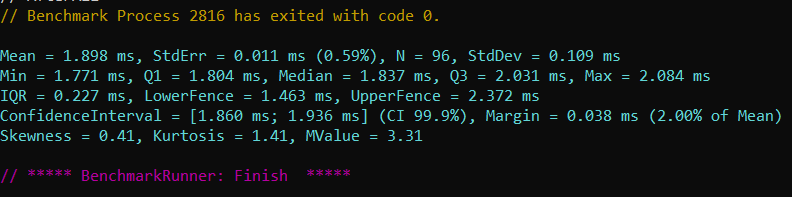
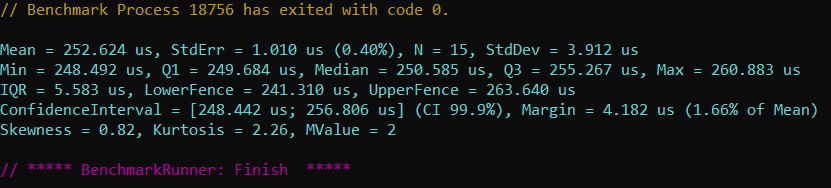
Small changes to benchmark and doc

Changed region(s): [[0.0, 0.2128, 1.0, 0.7447], [0.0, 0.0, 0.5455, 0.1064], [0.0, 0.8511, 0.4545, 0.9574]]

diff --git a/RDFSharp.NonFunctionalTest/Benchmarks.cs b/RDFSharp.NonFunctionalTest/Benchmarks.cs
@@ -57,40 +57,59 @@ namespace RDFSharp.NonFunctionalTest
             var graphNTrples = RDFGraph.FromFile(ntriplesFormat, @"..\..\..\..\..\..\..\..\ntriples.nt");
         }
 
+        // Create triple with resource, vocabulary, typedliteral
         [Benchmark]
         public void Scenario5()
         {
-            RDFGraph graph1_1 = new RDFGraph();
-            RDFGraph graph1_2 = new RDFGraph();
-            RDFGraph graph2 = new RDFGraph();
-            RDFGraph graph3 = new RDFGraph();
+            RDFGraph graph = new RDFGraph();
 
             for (int i = 0; i < 100; i++)
             {
-                var resource1_1 = new RDFResource(RDFVocabulary.RDF.BASE_URI + "resource" + i);
-                var vocabulary1_1 = RDFVocabulary.RDF.TYPE;
+                var resource = new RDFResource(RDFVocabulary.RDF.BASE_URI + "resource" + i);
+                var vocabulary = RDFVocabulary.RDF.TYPE;
                 var typedLiteral = new RDFTypedLiteral("true", RDFModelEnums.RDFDatatypes.XSD_BOOLEAN);
-                graph1_1.AddTriple(new RDFTriple(resource1_1, vocabulary1_1, typedLiteral));
+                graph.AddTriple(new RDFTriple(resource, vocabulary, typedLiteral));
             }
+        }
+
+        // Create triple with resource, vocabulary, plainliteral
+        [Benchmark]
+        public void Scenario6()
+        {
+            RDFGraph graph = new RDFGraph();
 
             for (int i = 0; i < 100; i++)
             {
-                var resource1_2 = new RDFResource(RDFVocabulary.RDFSHARP.BASE_URI + "resource" + i);
-                var vocabulary1_2 = RDFVocabulary.RDF.VALUE;
+                var resource = new RDFResource(RDFVocabulary.RDFSHARP.BASE_URI + "resource" + i);
+                var vocabulary = RDFVocabulary.RDF.VALUE;
                 var plainLiteral = new RDFPlainLiteral("literal");
-                graph1_2.AddTriple(new RDFTriple(resource1_2, vocabulary1_2, plainLiteral));
+                graph.AddTriple(new RDFTriple(resource, vocabulary, plainLiteral));
             }
+        }
+
+        // Create container with containertypes, itemtypes
+        [Benchmark]
+        public void Scenario7()
+        {
+            RDFGraph graph = new RDFGraph();
 
             for (int i = 0; i < 100; i++)
             {
                 var container = new RDFContainer(RDFModelEnums.RDFContainerTypes.Seq, RDFModelEnums.RDFItemTypes.Resource);
-                graph2.AddContainer(container);
+                graph.AddContainer(container);
             }
+        }
+
+        // Create collection with itemtypes
+        [Benchmark]
+        public void Scenario8()
+        {
+            RDFGraph graph = new RDFGraph();
 
             for (int i = 0; i < 100; i++)
             {
                 var collection = new RDFCollection(RDFModelEnums.RDFItemTypes.Resource);
-                graph3.AddCollection(collection);
+                graph.AddCollection(collection);
             }
         }
     }

diff --git a/doc/technology_nonfunctional.md b/doc/technology_nonfunctional.md
@@ -5,7 +5,7 @@ BenchmarkDotNet-et használtuk a benchmarkok készítéséhez és futtatásához
 Készettettünk egy új projektet a teszteknek, ehhez telepítettük a megfelelő nuget csomagot.
 A teszteket visual studioban futtatuk, futás közben a konzolra írta, hogy éppen mit csinál, majd végül az eredményeket.
 
- Kétféle funciót teszteltünk: Az RDFSharp fájlból gráfot készítő funkcióját, és a scenario2-ben az RDF model triple, container és collection elemeinek létrehozását.
+ Kétféle funciót teszteltünk: Az RDFSharp fájlból gráfot készítő funkcióját, és az RDF model triple, container és collection elemeinek létrehozását.
  
  ### Fájlból beolvasás
  
@@ -15,6 +15,9 @@ A teszteket visual studioban futtatuk, futás közben a konzolra írta, hogy ép
  Minden teszt külön metódust kell létrehozni, [Benchmark] attribútummal. Az osztály elé írt [SimpleJob] attribútummal lehet az egyes metódusok futásainak számát be
  llítani, ezt meg is tettük. Készítettem egy [GlobalSetup] függvényt is, ami az egész tesztelés eklőtt fut le, itt gondoskodom róla, hogy a fájlok
  biztosan olvashatóak legyenek.
+
+### Triple, container és collection
+Az RDF model triple, container és collection elemeit teszteljük. Az elemeket egy-egy for-cikluson belül hozzuk létre, majd hozzáadjuk őket egy gráfhoz. A ciklusok 100-szor futnak le. A triple-t két hasonló módon is teszteljük: egyszer Resource, Vocabulary és TypedLiteral, egyszer pedig Resource, Vocabulary és PlainLiteral típust adunk a konstruktorának. A container konstruktorában megadjuk a ContainerTypest és az ItemTypest. Végül, a collection konstruktorában csupán egy ItemTypes-ra van szükség.
  
  ### Eredmények
  
@@ -33,9 +36,9 @@ viszont érdekes, hogy a szórása enek a legkevesebb, azaz kicsi az eltérés a
 
 Összességében az nTriples szerepelt a legrosszabbul, nem sok értelmét látom a használatának.
 Memóriában az xml a nyerő, sebességben a trix, de nem olyan nagy az eltérés.
+
+Elemek létrehozásánál az elvárásoknak megfelelően a collection szerepelt a legjobban, ez jóval kevesebb időbe telt, mint a többi. A PlainLiterallal létrehozott triple és a container szinte ugyanannyi időt vettek igénybe, míg a TypedLiterallal létrehozott triple egy kicsivel többet, ám ez az eltérés jóval kisebb, mint a collection-é.
  
  Warningok, hintek, jelmagyarázat, összfutásidő:
  ![](4.png)
  
- ### Triple, container és collection
-A scenario5-ben az RDF model triple, container és collection elemeit teszteljük. Az elemeket egy-egy for-cikluson belül hozzuk létre, majd hozzáadjuk őket egy gráfhoz. A ciklusok 100-szor futnak le. A triple-t két hasonló módon is teszteljük: egyszer Resource, Vocabulary és TypedLiteral, egyszer pedig Resource, Vocabulary és PlainLiteral típust adunk a konstruktorának. A container konstruktorában megadjuk a ContainerTypest és az ItemTypest. Végül, a collection konstruktorában csupán egy ItemTypes-ra van szükség.
